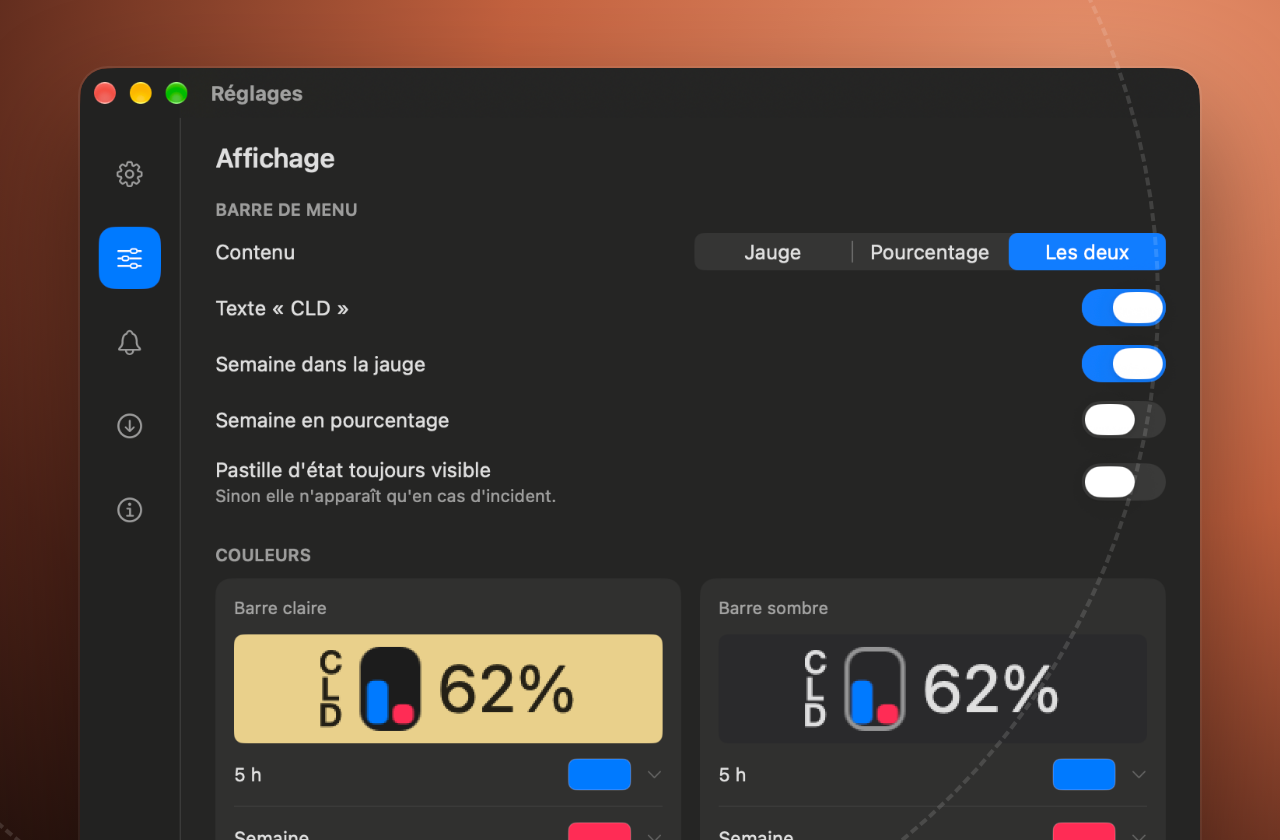
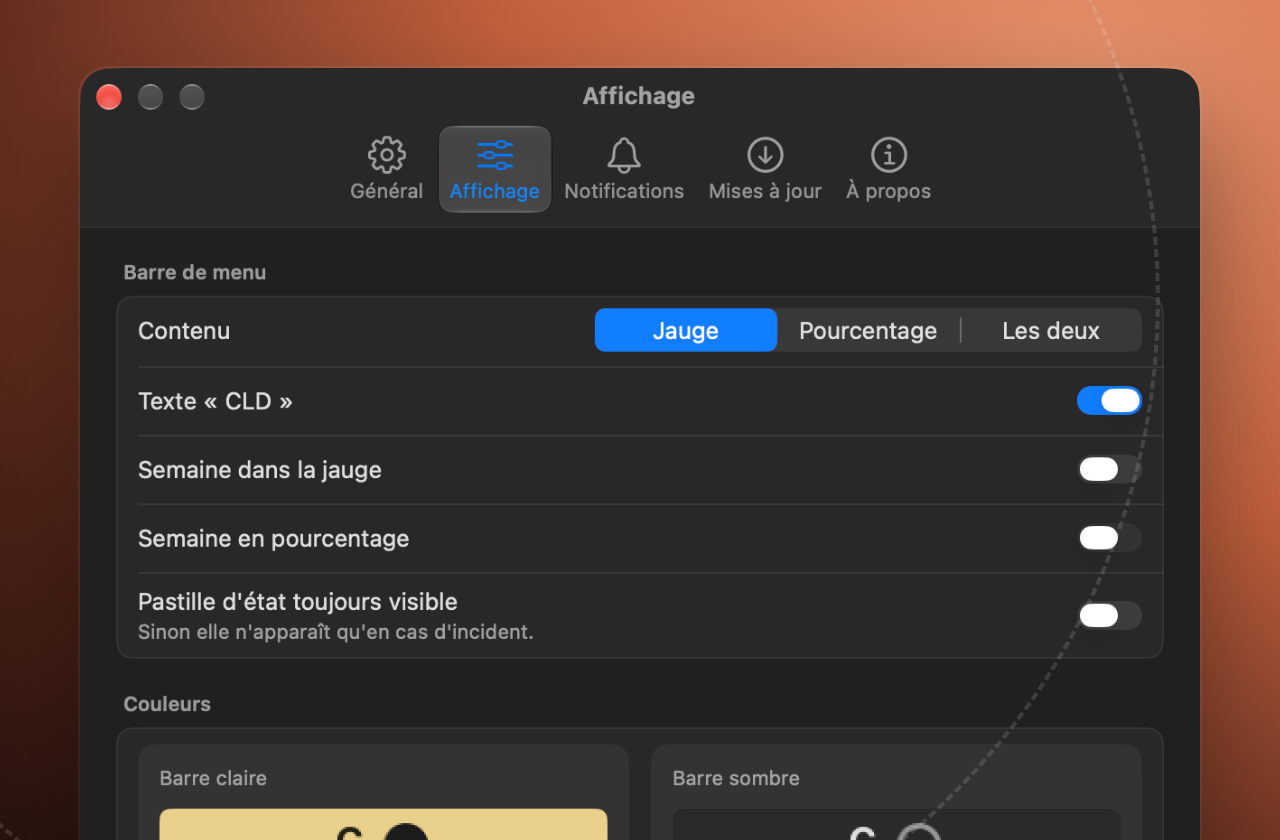
Page de présentation : nouveaux réglages (barre d'outils, lignes groupées, thème)

diff --git a/README.md b/README.md
@@ -28,7 +28,7 @@ ClaudeUsage relève votre quota auprès d'Anthropic à l'intervalle de votre cho
 </tr>
 </table>
 
-Et aussi : la consommation locale de **Claude Code**, par modèle et par projet, lue sur votre Mac.
+Et aussi : la consommation locale de **Claude Code**, par modèle et par projet, lue sur votre Mac, et un thème clair, sombre ou celui du système.
 
 ## Installer
 
